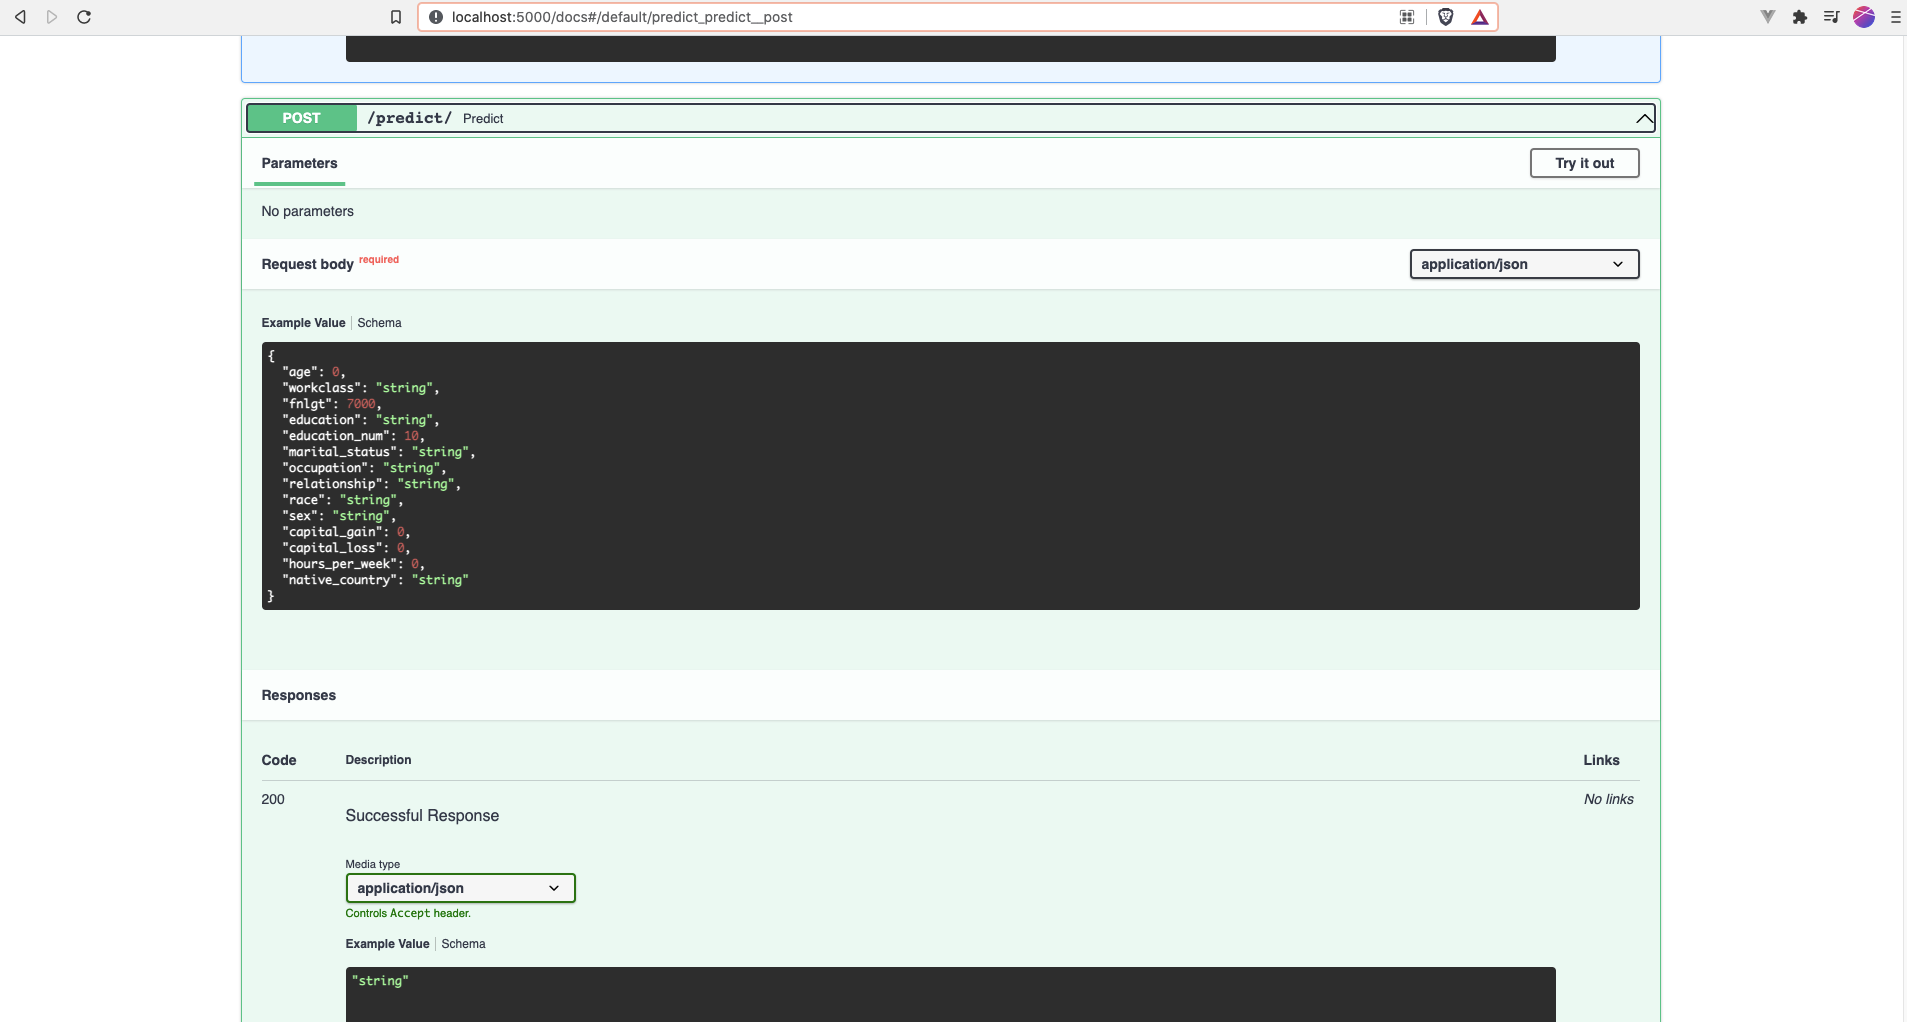
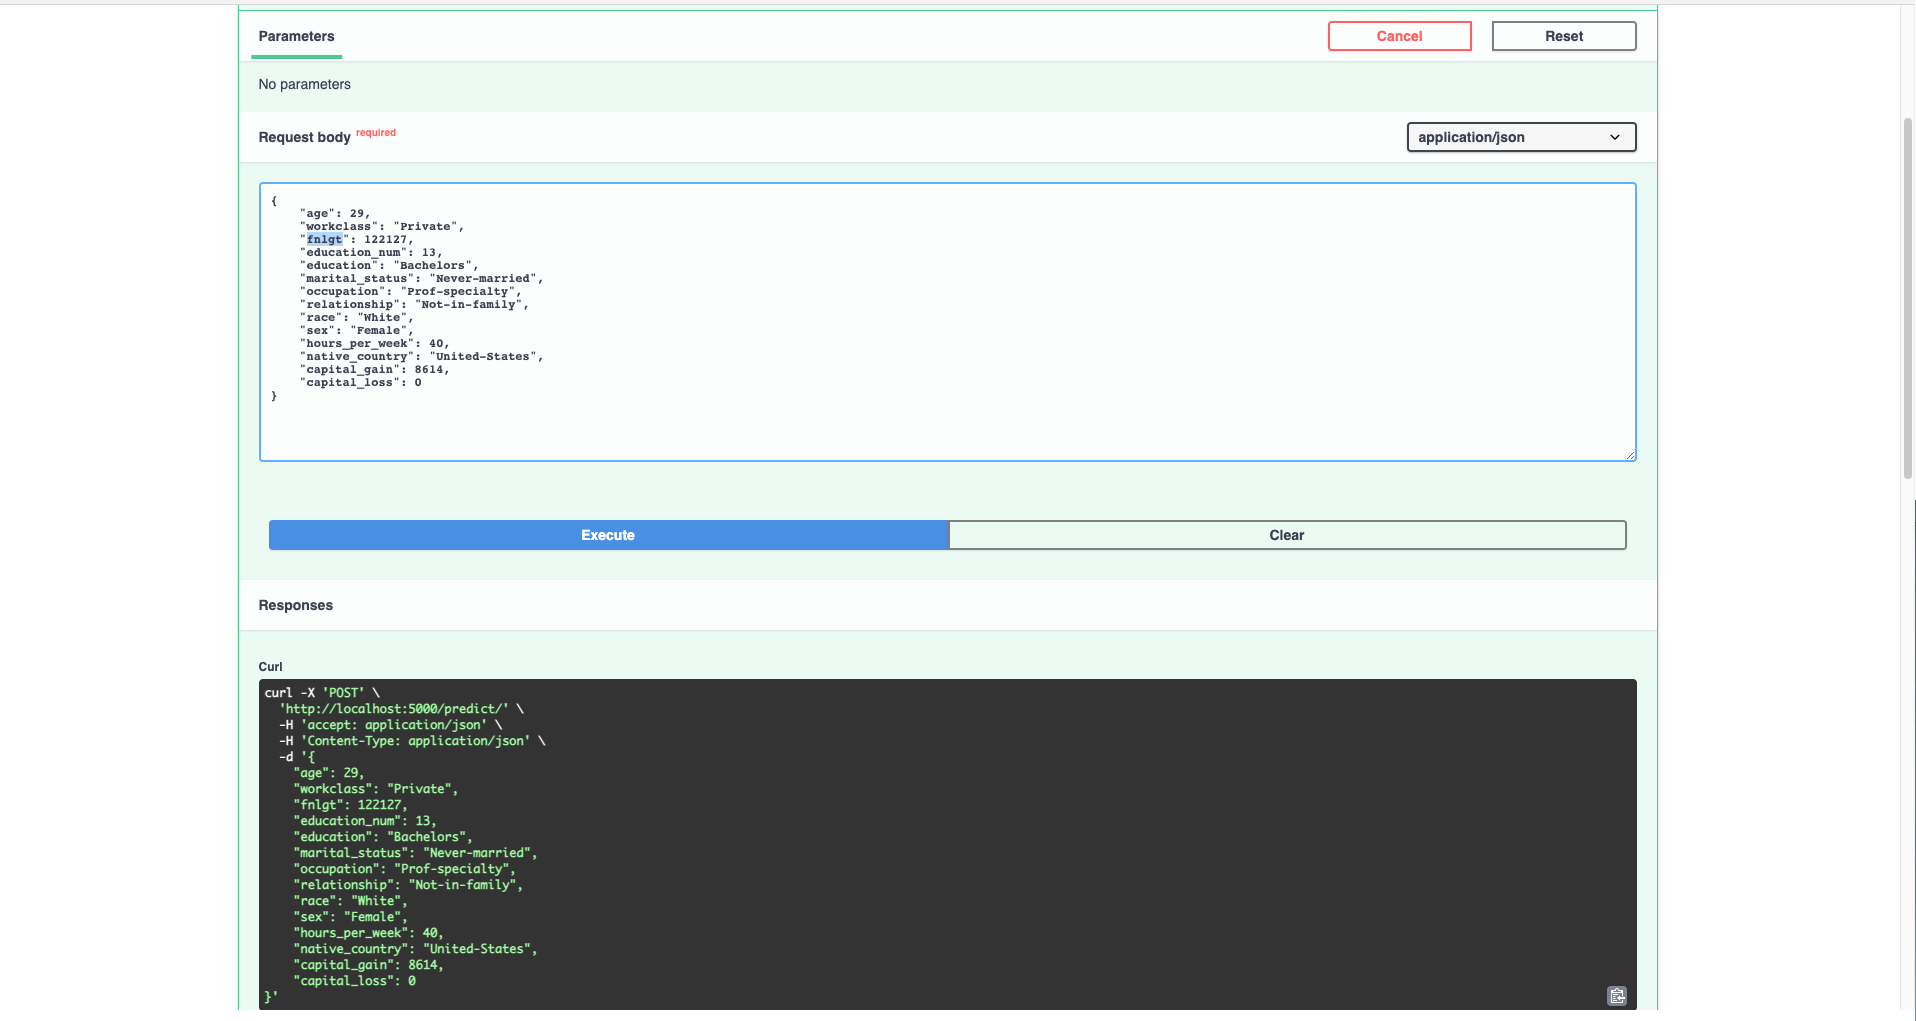
bug fixes

diff --git a/fastapi_server/test_api.py b/fastapi_server/test_api.py
@@ -39,21 +39,23 @@ def test_post2():
         "/predict/",
         headers={"X-Token": "coneofsilence"},
         json={
-            "age": 60,
-            "fnlgt": 337895,
+            "age": 29,
+            "workclass": "Private",
+            "fnlgt": 122127,
             "education_num": 13,
-            "workclass": "Federal-gov",
-            "education": "Doctorate",
-            "marital_status": "Married-civ-spouse",
+            "education": "Bachelors",
+            "marital_status": "Never-married",
             "occupation": "Prof-specialty",
-            "relationship": "Husband",
+            "relationship": "Not-in-family",
             "race": "White",
             "sex": "Female",
             "hours_per_week": 40,
-            "native_country": "Canada"
+            "native_country": "United-States",
+            "capital_gain": 8614,
+            "capital_loss": 0
         }
     )
     assert r.status_code == 200
     assert r.json() == {
-        'prediction': [0]
+        'prediction': [1]
     }

diff --git a/starter/model_card.md b/starter/model_card.md
@@ -28,12 +28,12 @@ Overall Performance
 - Recall: 0.26271561256081377
 - Fbeta: 0.3865929059550927
 
-Slice Performance
-Category: sex, Value: Male
+### Slice Performance
+### Category: sex, Value: Male
 - Precision: 0.812199036918138
 - Recall: 0.2661756970015781
 - Fbeta: 0.4009508716323296
-Category: sex, Value: Female
+### Category: sex, Value: Female
 - Precision: 0.5668449197860963
 - Recall: 0.3045977011494253
 - Fbeta: 0.3962616822429907
